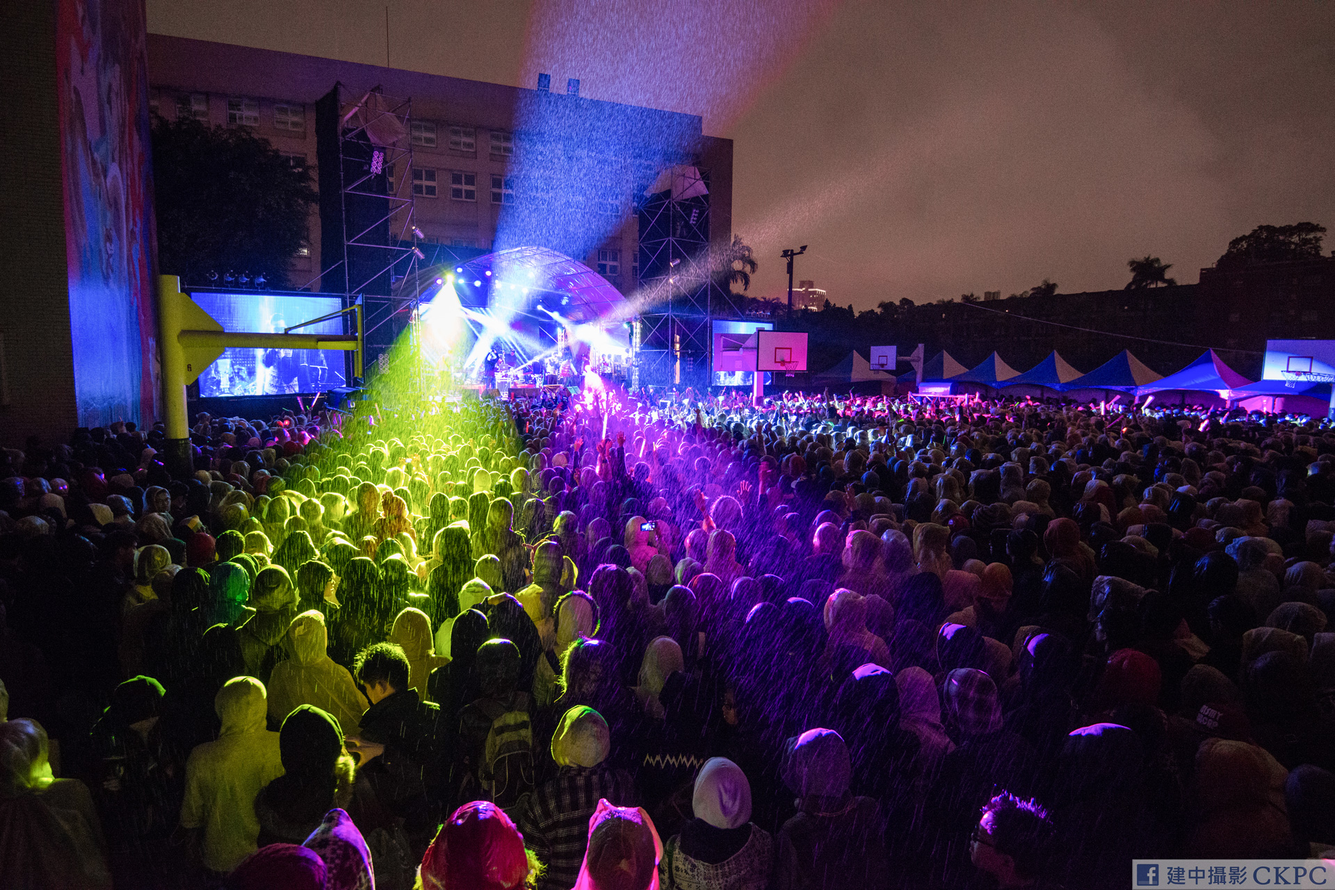
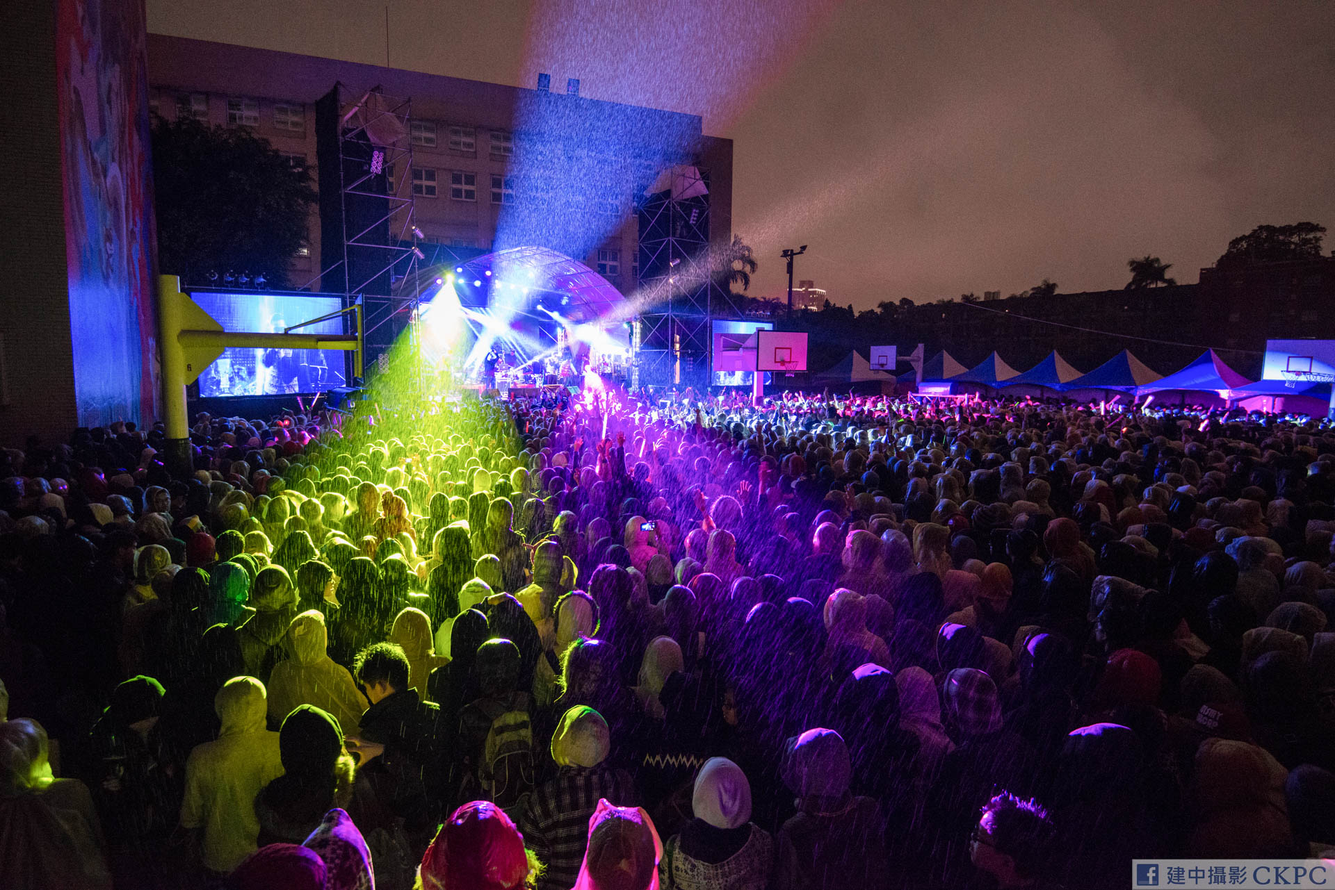
Optimize png

diff --git a/frontend/css/creative.min.css b/frontend/css/creative.min.css
@@ -1,1 +1,1 @@
-body,html{width:100%;height:100%}body{font-family:Merriweather,'Helvetica Neue',Arial,"微軟正黑體","Microsoft JhengHei",sans-serif!important}hr{max-width:50px;border-width:3px;border-color:#212529}hr.light{border-color:#fff}a{color:#ccc;-webkit-transition:all .2s;-moz-transition:all .2s;transition:all .2s}a:hover{color:#fff}h1,h2,h3,h4,h5,h6{font-family:'Open Sans','Helvetica Neue',Arial,"微軟正黑體","Microsoft JhengHei",sans-serif!important}.bg-primary{background-color:#212529!important}.bg-dark{background-color:#212529!important}.text-faded{color:rgba(255,255,255,.7)}section{padding:8rem 0}.section-heading{margin-top:0}::-moz-selection{color:#fff;background:#212529;text-shadow:none}::selection{color:#fff;background:#212529;text-shadow:none}img::selection{color:#fff;background:0 0}img::-moz-selection{color:#fff;background:0 0}#mainNav{border-bottom:1px solid rgba(33,37,41,.1);background-color:#191919;-webkit-transition:all .2s;-moz-transition:all .2s;transition:all .2s}#mainNav .navbar-brand{font-weight:700;text-transform:uppercase;color:#fff}#mainNav .navbar-brand:focus,#mainNav .navbar-brand:hover{color:#ccc}#mainNav .navbar-nav>li.nav-item>a.nav-link,#mainNav .navbar-nav>li.nav-item>a.nav-link:focus{font-size:.9rem;font-weight:700;text-transform:uppercase;color:#fff}#mainNav .navbar-nav>li.nav-item>a.nav-link:focus:hover,#mainNav .navbar-nav>li.nav-item>a.nav-link:hover{color:#ccc}#mainNav .navbar-nav>li.nav-item>a.nav-link.active,#mainNav .navbar-nav>li.nav-item>a.nav-link:focus.active{color:#ccc!important;background-color:transparent}#mainNav .navbar-nav>li.nav-item>a.nav-link.active:hover,#mainNav .navbar-nav>li.nav-item>a.nav-link:focus.active:hover{background-color:transparent}@media (min-width:992px){#mainNav{border-color:transparent;background-color:transparent}#mainNav .navbar-brand{color:rgba(255,255,255,.7)}#mainNav .navbar-brand:focus,#mainNav .navbar-brand:hover{color:#fff}#mainNav .navbar-nav>li.nav-item>a.nav-link{padding:.5rem 1rem}#mainNav .navbar-nav>li.nav-item>a.nav-link,#mainNav .navbar-nav>li.nav-item>a.nav-link:focus{color:rgba(255,255,255,.7)}#mainNav .navbar-nav>li.nav-item>a.nav-link:focus:hover,#mainNav .navbar-nav>li.nav-item>a.nav-link:hover{color:#fff}#mainNav.navbar-shrink{border-bottom:1px solid rgba(33,37,41,.1);background-color:#191919}#mainNav.navbar-shrink .navbar-brand{color:#fff}#mainNav.navbar-shrink .navbar-brand:focus,#mainNav.navbar-shrink .navbar-brand:hover{color:#ccc}#mainNav.navbar-shrink .navbar-nav>li.nav-item>a.nav-link,#mainNav.navbar-shrink .navbar-nav>li.nav-item>a.nav-link:focus{color:#fff}#mainNav.navbar-shrink .navbar-nav>li.nav-item>a.nav-link:focus:hover,#mainNav.navbar-shrink .navbar-nav>li.nav-item>a.nav-link:hover{color:#ccc}}header.masthead{position:relative;padding-top:10rem;padding-bottom:calc(10rem - 56px);background:linear-gradient(rgba(0,0,0,.5),rgba(0,0,0,.5)),url(../img/photos/masthead-bg.jpg);background-size:cover;background-position:center center;-webkit-background-size:cover;-moz-background-size:cover;-o-background-size:cover;background-size:cover}header.masthead hr{margin-top:30px;margin-bottom:30px}header.masthead h1{font-size:2rem}header.masthead p{font-weight:300}@media (min-width:768px){header.masthead p{font-size:1.15rem}}@media (min-width:992px){header.masthead{height:100vh;min-height:650px;padding-top:0;padding-bottom:0}header.masthead h1{font-size:3rem}}@media (min-width:1200px){header.masthead h1{font-size:4rem}}.service-box{max-width:400px}.portfolio-box{position:relative;display:block;max-width:650px;margin:0 auto}.portfolio-box .portfolio-box-caption{position:absolute;bottom:0;display:block;width:100%;height:100%;text-align:center;opacity:0;color:#fff;background:#212529;-webkit-transition:all .2s;-moz-transition:all .2s;transition:all .2s}.portfolio-box .portfolio-box-caption .portfolio-box-caption-content{position:absolute;top:50%;width:100%;transform:translateY(-50%);text-align:center}.portfolio-box .portfolio-box-caption .portfolio-box-caption-content .project-category,.portfolio-box .portfolio-box-caption .portfolio-box-caption-content .project-name{padding:0 15px;font-family:'Open Sans','Helvetica Neue',Arial,"微軟正黑體","Microsoft JhengHei",sans-serif!important}.portfolio-box .portfolio-box-caption .portfolio-box-caption-content .project-category{font-size:14px;font-weight:600;text-transform:uppercase}.portfolio-box .portfolio-box-caption .portfolio-box-caption-content .project-name{font-size:18px}.portfolio-box:hover .portfolio-box-caption{opacity:1}.portfolio-box:focus{outline:0}@media (min-width:768px){.portfolio-box .portfolio-box-caption .portfolio-box-caption-content .project-category{font-size:16px}.portfolio-box .portfolio-box-caption .portfolio-box-caption-content .project-name{font-size:22px}}.text-primary{color:#212529!important}.btn{text-transform:uppercase;border-color:#fff;font-family:'Open Sans','Helvetica Neue',Arial,"微軟正黑體","Microsoft JhengHei",sans-serif!important}.btn-xl{padding:1rem 2rem}.btn-primary{background-color:#212529;border-color:#212529}.btn-primary:active,.btn-primary:focus,.btn-primary:hover{color:#fff;background-color:#212529!important}.btn-primary:active,.btn-primary:focus{box-shadow:0 0 0 .2rem rgba(240,95,64,.5)!important}
+body,html{width:100%;height:100%}body{font-family:Merriweather,'Helvetica Neue',Arial,"微軟正黑體","Microsoft JhengHei",sans-serif!important}hr{max-width:50px;border-width:3px;border-color:#212529}hr.light{border-color:#fff}a{color:#ccc;-webkit-transition:all .2s;-moz-transition:all .2s;transition:all .2s}a:hover{color:#fff}h1,h2,h3,h4,h5,h6{font-family:'Open Sans','Helvetica Neue',Arial,"微軟正黑體","Microsoft JhengHei",sans-serif!important}.bg-primary{background-color:#212529!important}.bg-dark{background-color:#212529!important}.text-faded{color:rgba(255,255,255,.7)}section{padding:8rem 0}.section-heading{margin-top:0}::-moz-selection{color:#fff;background:#212529;text-shadow:none}::selection{color:#fff;background:#212529;text-shadow:none}img::selection{color:#fff;background:0 0}img::-moz-selection{color:#fff;background:0 0}#mainNav{border-bottom:1px solid rgba(33,37,41,.1);background-color:#191919;-webkit-transition:all .2s;-moz-transition:all .2s;transition:all .2s}#mainNav .navbar-brand{font-weight:700;text-transform:uppercase;color:#fff}#mainNav .navbar-brand:focus,#mainNav .navbar-brand:hover{color:#ccc}#mainNav .navbar-nav>li.nav-item>a.nav-link,#mainNav .navbar-nav>li.nav-item>a.nav-link:focus{font-size:.9rem;font-weight:700;text-transform:uppercase;color:#fff}#mainNav .navbar-nav>li.nav-item>a.nav-link:focus:hover,#mainNav .navbar-nav>li.nav-item>a.nav-link:hover{color:#ccc}#mainNav .navbar-nav>li.nav-item>a.nav-link.active,#mainNav .navbar-nav>li.nav-item>a.nav-link:focus.active{color:#ccc!important;background-color:transparent}#mainNav .navbar-nav>li.nav-item>a.nav-link.active:hover,#mainNav .navbar-nav>li.nav-item>a.nav-link:focus.active:hover{background-color:transparent}@media (min-width:992px){#mainNav{border-color:transparent;background-color:transparent}#mainNav .navbar-brand{color:rgba(255,255,255,.7)}#mainNav .navbar-brand:focus,#mainNav .navbar-brand:hover{color:#fff}#mainNav .navbar-nav>li.nav-item>a.nav-link{padding:.5rem 1rem}#mainNav .navbar-nav>li.nav-item>a.nav-link,#mainNav .navbar-nav>li.nav-item>a.nav-link:focus{color:rgba(255,255,255,.7)}#mainNav .navbar-nav>li.nav-item>a.nav-link:focus:hover,#mainNav .navbar-nav>li.nav-item>a.nav-link:hover{color:#fff}#mainNav.navbar-shrink{border-bottom:1px solid rgba(33,37,41,.1);background-color:#191919}#mainNav.navbar-shrink .navbar-brand{color:#fff}#mainNav.navbar-shrink .navbar-brand:focus,#mainNav.navbar-shrink .navbar-brand:hover{color:#ccc}#mainNav.navbar-shrink .navbar-nav>li.nav-item>a.nav-link,#mainNav.navbar-shrink .navbar-nav>li.nav-item>a.nav-link:focus{color:#fff}#mainNav.navbar-shrink .navbar-nav>li.nav-item>a.nav-link:focus:hover,#mainNav.navbar-shrink .navbar-nav>li.nav-item>a.nav-link:hover{color:#ccc}}header.masthead{position:relative;padding-top:10rem;padding-bottom:calc(10rem - 56px);background:linear-gradient(rgba(0,0,0,.5),rgba(0,0,0,.5)),url(../img/PJPEGs/masthead-bg.prog.jpg);background-size:cover;background-position:center center;-webkit-background-size:cover;-moz-background-size:cover;-o-background-size:cover;background-size:cover}header.masthead hr{margin-top:30px;margin-bottom:30px}header.masthead h1{font-size:2rem}header.masthead p{font-weight:300}@media (min-width:768px){header.masthead p{font-size:1.15rem}}@media (min-width:992px){header.masthead{height:100vh;min-height:650px;padding-top:0;padding-bottom:0}header.masthead h1{font-size:3rem}}@media (min-width:1200px){header.masthead h1{font-size:4rem}}.service-box{max-width:400px}.portfolio-box{position:relative;display:block;max-width:650px;margin:0 auto}.portfolio-box .portfolio-box-caption{position:absolute;bottom:0;display:block;width:100%;height:100%;text-align:center;opacity:0;color:#fff;background:#212529;-webkit-transition:all .2s;-moz-transition:all .2s;transition:all .2s}.portfolio-box .portfolio-box-caption .portfolio-box-caption-content{position:absolute;top:50%;width:100%;transform:translateY(-50%);text-align:center}.portfolio-box .portfolio-box-caption .portfolio-box-caption-content .project-category,.portfolio-box .portfolio-box-caption .portfolio-box-caption-content .project-name{padding:0 15px;font-family:'Open Sans','Helvetica Neue',Arial,"微軟正黑體","Microsoft JhengHei",sans-serif!important}.portfolio-box .portfolio-box-caption .portfolio-box-caption-content .project-category{font-size:14px;font-weight:600;text-transform:uppercase}.portfolio-box .portfolio-box-caption .portfolio-box-caption-content .project-name{font-size:18px}.portfolio-box:hover .portfolio-box-caption{opacity:1}.portfolio-box:focus{outline:0}@media (min-width:768px){.portfolio-box .portfolio-box-caption .portfolio-box-caption-content .project-category{font-size:16px}.portfolio-box .portfolio-box-caption .portfolio-box-caption-content .project-name{font-size:22px}}.text-primary{color:#212529!important}.btn{text-transform:uppercase;border-color:#fff;font-family:'Open Sans','Helvetica Neue',Arial,"微軟正黑體","Microsoft JhengHei",sans-serif!important}.btn-xl{padding:1rem 2rem}.btn-primary{background-color:#212529;border-color:#212529}.btn-primary:active,.btn-primary:focus,.btn-primary:hover{color:#fff;background-color:#212529!important}.btn-primary:active,.btn-primary:focus{box-shadow:0 0 0 .2rem rgba(240,95,64,.5)!important}

diff --git a/frontend/index.html b/frontend/index.html
@@ -9,22 +9,14 @@
   <meta name="author" content="">
 
   <!--<title>Pusheen is cute &lt;3</title>-->
-  <title>建國中學70TH畢業典禮</title>
-  <link rel="shortcut icon" href="./img/logo.png" type="image/x-icon" />
+  <title>建國中學70th畢業典禮</title>
+  <link rel="shortcut icon" href="./img/logo-min.png" type="image/x-icon" />
 
   <!-- Bootstrap core CSS -->
   <link href="vendor/bootstrap/css/bootstrap.min.css" rel="stylesheet">
 
 
   <!-- Custom fonts for this template -->
-  <!--<link rel="stylesheet" href="https://use.fontawesome.com/releases/v5.0.13/css/all.css" integrity="sha384-DNOHZ68U8hZfKXOrtjWvjxusGo9WQnrNx2sqG0tfsghAvtVlRW3tvkXWZh58N9jp"
-    crossorigin="anonymous">
-  <link href="vendor/font-awesome/css/font-awesome.min.css" rel="stylesheet" type="text/css">
-  <link href='https://fonts.googleapis.com/css?family=Open+Sans:300italic,400italic,600italic,700italic,800italic,400,300,600,700,800'
-    rel='stylesheet' type='text/css'>
-  <link href='https://fonts.googleapis.com/css?family=Merriweather:400,300,300italic,400italic,700,700italic,900,900italic'
-    rel='stylesheet' type='text/css'>-->
-
   <!-- Plugin CSS -->
   <link href="vendor/magnific-popup/magnific-popup.css" rel="stylesheet">
   <link href="vendor/hover-min.css" rel="stylesheet">
@@ -40,7 +32,7 @@
   <!-- Navigation -->
   <nav class="navbar navbar-dark navbar-expand-lg navbar-light fixed-top" id="mainNav">
     <div class="container">
-      <a class="navbar-brand js-scroll-trigger" href="#page-top">70th畢業典禮</a>
+      <a class="navbar-brand js-scroll-trigger" href="#page-top">建國中學70th畢業典禮</a>
       <button class="navbar-toggler navbar-toggler-right" type="button" data-toggle="collapse" data-target="#navbarResponsive"
         aria-controls="navbarResponsive" aria-expanded="false" aria-label="Toggle navigation">
         <span class="navbar-toggler-icon"></span>
@@ -132,28 +124,6 @@
         <div class="col-lg-12">
           <h3 class="text-white">敬請期待～</h3>
         </div>
-        <!--<div class="col-lg-1"></div>
-        <div class="col-lg-10">
-            <iframe width="100%" height="415px" src="https://www.youtube.com/embed/0oCQwd5ZyOc" frameborder="0" allow="autoplay; encrypted-media" allowfullscreen></iframe>
-          <p>【建中第70屆畢業歌徵選作品】1095</p>
-        </div>
-        <div class="col-lg-1"></div>-->
-        <!--<div class="col-lg-4 col-md-6 text-center">
-            <iframe width="100%" height="245px" src="https://www.youtube.com/embed/2Gj2y2paqRk?rel=0" frameborder="0" allow="autoplay; encrypted-media" allowfullscreen></iframe>
-          <p>【建中第70屆畢業歌徵選作品】圍牆</p>
-        </div><div class="col-lg-4 col-md-6 text-center">
-            <iframe width="100%" height="245px" src="https://www.youtube.com/embed/V1Y5-_yC8-E?rel=0" frameborder="0" allow="autoplay; encrypted-media" allowfullscreen></iframe>
-          <p>【建中第70屆畢業歌徵選作品】肄路上</p>
-        </div><div class="col-lg-4 col-md-6 text-center">
-            <iframe width="100%" height="245px" src="https://www.youtube.com/embed/KyRo3DTybZY?rel=0" frameborder="0" allow="autoplay; encrypted-media" allowfullscreen></iframe>
-          <p>【建中第70屆畢業歌徵選作品】青春的模樣</p>
-        </div><div class="col-lg-4 col-md-6 text-center">
-            <iframe width="100%" height="245px" src="https://www.youtube.com/embed/-WX92iikIQE?rel=0" frameborder="0" allow="autoplay; encrypted-media" allowfullscreen></iframe>
-          <p>【建中第70屆畢業歌徵選作品】想</p>
-        </div><div class="col-lg-4 col-md-6 text-center">
-            <iframe width="100%" height="245px" src="https://www.youtube.com/embed/yP0W1IB7pdw?rel=0" frameborder="0" allow="autoplay; encrypted-media" allowfullscreen></iframe>
-          <p>【建中第70屆畢業歌徵選作品】駝客紅樓過三秋　浪子高歌論回頭</p>
-        </div>-->
       </div>
     </div>
   </section>
@@ -233,11 +203,7 @@
           </table>
         </div>
         <div class="col-lg-4 col-md-12 text-center">
-          <!-- <img src="../img/logo_transparent.png" style="width:100%" class="text-center"> -->
           <iframe src="https://www.facebook.com/plugins/page.php?href=https%3A%2F%2Fwww.facebook.com%2Fckhs70th%2F&tabs=timeline&width=290&height=370&small_header=true&adapt_container_width=true&hide_cover=false&show_facepile=false&appId=319353005073716" width="290" height="370" style="border:none;overflow:hidden" scrolling="no" frameborder="0" allowTransparency="true" allow="encrypted-media"></iframe>
-          <!--<div id="fb-root"></div>
-          <script src="./js/facebookPage.min.js"></script>
-          <div class="fb-page" data-href="https://www.facebook.com/ckhs70th/" data-tabs="timeline" data-width="290" data-height="370" data-small-header="true" data-adapt-container-width="true" data-hide-cover="false" data-show-facepile="false"><blockquote cite="https://www.facebook.com/ckhs70th/" class="fb-xfbml-parse-ignore"><a href="https://www.facebook.com/ckhs70th/">建國中學第70屆畢業典禮《放學派對》</a></blockquote></div>-->
         </div>
         <a href="https://www.youtube.com/watch?v=ZZ5LpwO-An4" style="color:#30363c">7122</a>
       </div>

diff --git a/frontend/css/custom.min.css b/frontend/css/custom.min.css
@@ -1,1 +1,1 @@
-body{font-family:Arial,"微軟正黑體","Microsoft JhengHei",sans-serif!important}section.dark{background:linear-gradient(to right,#212529,#ccc,#212529) left bottom #212529 no-repeat;background-size:100% 2px}section.agenda{background:linear-gradient(rgba(0,0,0,.5),rgba(0,0,0,.5)),url(../img/photos/schedule-bg.jpg);background-position:center center;background-repeat:no-repeat;background-size:cover;-webkit-background-size:cover;-moz-background-size:cover;-o-background-size:cover;background-size:cover}section.agenda table{background-color:rgba(20,21,22,.45)}.btn-light{background-color:#212529;color:#f8f9fa}
+body{font-family:Arial,"微軟正黑體","Microsoft JhengHei",sans-serif!important}section.dark{background:linear-gradient(to right,#212529,#ccc,#212529) left bottom #212529 no-repeat;background-size:100% 2px}section.agenda{background:linear-gradient(rgba(0,0,0,.5),rgba(0,0,0,.5)),url(../img/PJPEGs/schedule-bg.prog.jpg);background-position:center center;background-repeat:no-repeat;background-size:cover;-webkit-background-size:cover;-moz-background-size:cover;-o-background-size:cover;background-size:cover}section.agenda table{background-color:rgba(20,21,22,.45)}.btn-light{background-color:#212529;color:#f8f9fa}

diff --git a/frontend/css/custom.css b/frontend/css/custom.css
@@ -13,7 +13,7 @@ section.agenda {
         rgba(0, 0, 0, 0.5), 
         rgba(0, 0, 0, 0.5)
     ),
-    url(../img/photos/schedule-bg.jpg);
+    url(../img/PJPEGs/schedule-bg.prog.jpg);
     background-position: center center;
     background-repeat: no-repeat;
     background-size: cover;

diff --git a/frontend/css/creative.css b/frontend/css/creative.css
@@ -175,7 +175,7 @@ header.masthead {
       rgba(0, 0, 0, 0.5), 
       rgba(0, 0, 0, 0.5)
     ),
-    url(../img/photos/masthead-bg.jpg);
+    url(../img/PJPEGs/masthead-bg.prog.jpg);
   background-size: cover;
   background-position: center center;
   -webkit-background-size: cover;
